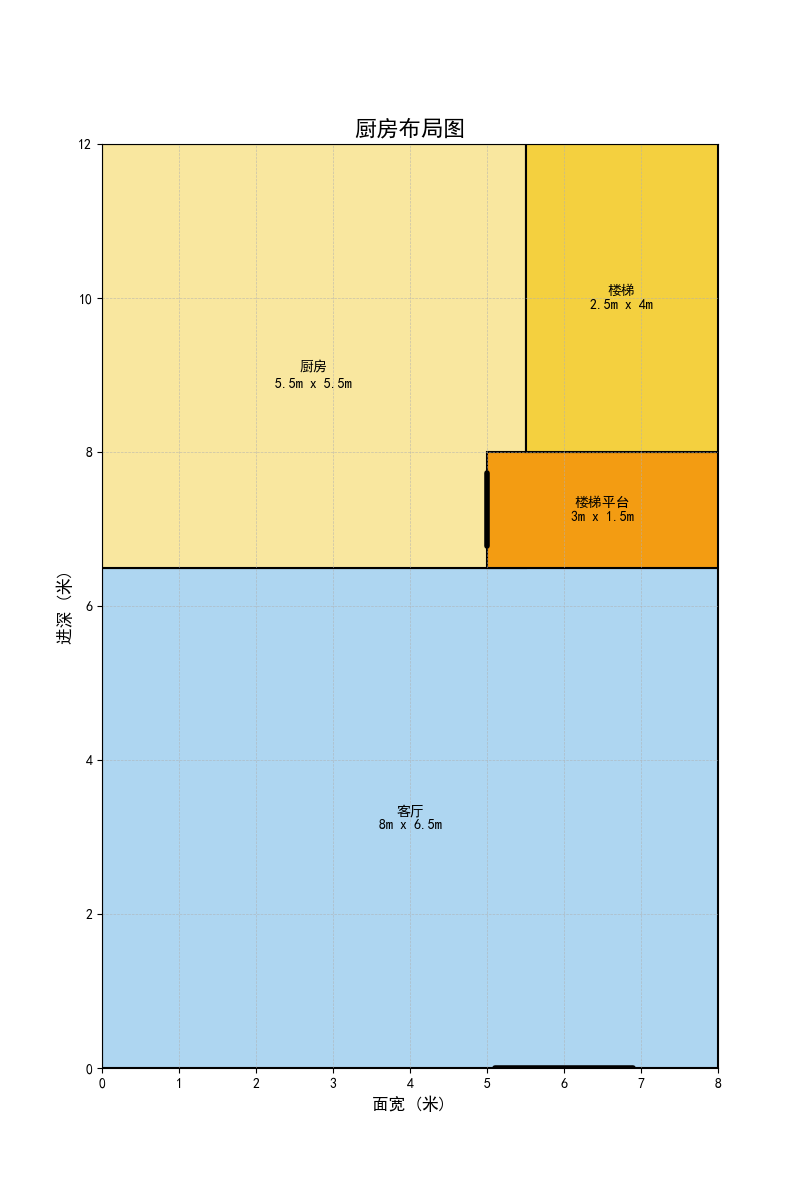
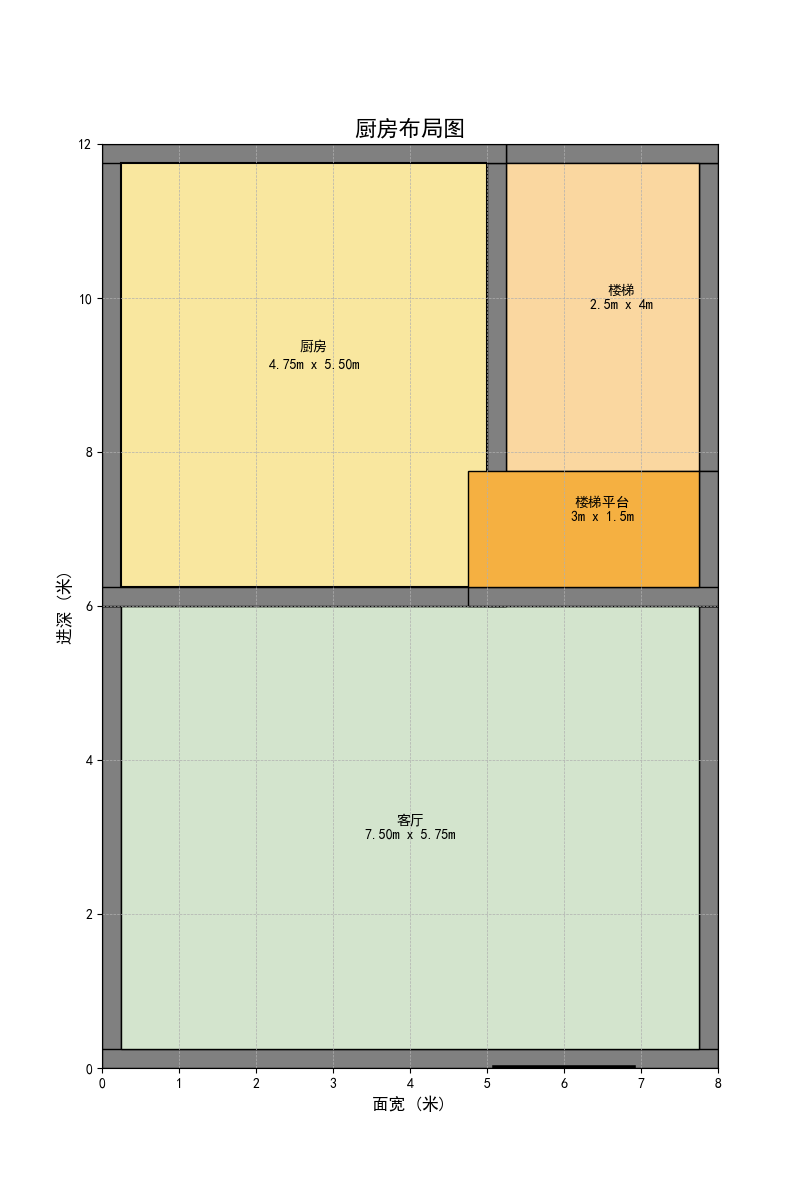
feat(floor_*.py): update

diff --git a/floor_1nd.py b/floor_1nd.py
@@ -26,46 +26,111 @@ plt.grid(visible=True, which='both', linestyle='--', linewidth=0.5)  # 添加虚
 
 # 定义各功能区的颜色
 colors = {
-    '客厅': '#AED6F1',  # 浅蓝色
-    '楼梯': '#F7DC6F',  # 浅黄色（楼梯）
-    '卫生间': '#F1948A',  # 浅红色
-    '储物间': '#D7BDE2',  # 淡紫色（储物间）
-    '车库': '#D3D3D3',  # 浅灰色（车库）
-    '走廊': '#E5E4E2',  # 浅灰色（走廊）
-    '楼梯平台': '#F5B041',  # 橙色（楼梯平台）
+    '客厅': '#D3E4CD',  # 清新浅绿色
+    '主卧': '#F9E79F',  # 温暖柠檬黄
+    '次卧': '#ABEBC6',  # 舒适薄荷绿
+    '楼梯': '#FAD7A0',  # 柔和杏色
+    '卫生间': '#F4CCCC',  # 淡雅粉红
+    '储物间': '#D7BDE2',  # 淡紫罗兰
+    '车库': '#D3D3D3',  # 浅灰色
+    '走廊': '#EAECEE',  # 浅灰蓝
+    '楼梯平台': '#F5B041',  # 明亮橙色
+    '厨房': '#F9E79F',  # 柠檬黄（厨房）
 }
+# 墙壁厚度
+wall_thickness = 0.25
+
+
+# 绘制墙壁
+def draw_wall(x, y, width, height, exclude=None, adjacent=None):
+    """
+    绘制墙壁，排除或根据相邻区域避免重复绘制。
+
+    参数：
+    x, y: 功能区左下角坐标
+    width, height: 功能区宽度和高度
+    exclude: 排除的墙壁方向 ('left', 'right', 'top', 'bottom')
+    adjacent: 相邻区域信息，用于避免重复绘制墙壁
+    """
+    if exclude is None:
+        exclude = list()
+    if adjacent is None:
+        adjacent = list()
+    if not isinstance(exclude, list):
+        exclude = [exclude]
+
+    if ('left' not in exclude) and ('left' not in adjacent):
+        ax.add_patch(patches.Rectangle((x, y), wall_thickness, height, facecolor='gray', edgecolor='black'))
+    if ('right' not in exclude) and ('right' not in adjacent):
+        ax.add_patch(patches.Rectangle((x + width - wall_thickness, y), wall_thickness, height - wall_thickness,
+                                       facecolor='gray', edgecolor='black'))
+    if ('bottom' not in exclude) and ('bottom' not in adjacent):
+        ax.add_patch(patches.Rectangle((x, y), width, wall_thickness, facecolor='gray', edgecolor='black'))
+    if ('top' not in exclude) and ('top' not in adjacent):
+        ax.add_patch(patches.Rectangle((x, y + height - wall_thickness), width, wall_thickness, facecolor='gray',
+                                       edgecolor='black'))
+
 
 # 绘制各个功能区
-# 客厅：位于最前面的区域
-ax.add_patch(patches.Rectangle((0, 0), 8, 6.5, facecolor=colors['客厅'], edgecolor='black', label='客厅'))
-ax.text(4, 3.25, "客厅\n8m x 6.5m", ha='center', va='center', fontsize=10)
 
-# 走廊：位于楼梯、卫生间和车库的前面
-# 修改为两部分：楼梯平台和其他走廊
-# 楼梯平台：宽3米，长1.5米
-ax.add_patch(patches.Rectangle((5, 6.5), 3, 1.5, facecolor=colors['楼梯平台'], edgecolor='black', label='楼梯平台'))
-ax.text(6.5, 7.25, "楼梯平台\n3m x 1.5m", ha='center', va='center', fontsize=10)
-
-# 其他走廊：剩余部分
-ax.add_patch(patches.Rectangle((0, 6.5), 5, 1.5, facecolor=colors['走廊'], edgecolor='black'))
-ax.text(2.5, 7.25, "走廊\n5m x 1.5m", ha='center', va='center', fontsize=10)
+# 客厅：位于最前面的区域，右侧与楼梯平台之间有墙
+draw_wall(0, 0, 8, 6.5 - wall_thickness)  # 排除底部墙壁（大门区域）
+# 注意：客厅右侧与楼梯平台之间有一堵墙，占用客厅空间
+ax.add_patch(
+    patches.Rectangle((wall_thickness, wall_thickness), 8 - 2 * wall_thickness, 6.5 - wall_thickness * 2,
+                      facecolor=colors['客厅'], edgecolor='black', label='客厅'))
+ax.text(4, 3.25, f"客厅\n{8 - 2 * wall_thickness:.2f}m x {6.5 - wall_thickness * 2:.2f}m",
+        ha='center', va='center', fontsize=10)
 
 # 楼梯：位于右侧最里面的区域
-ax.add_patch(patches.Rectangle((5.5, 8), 2.5, 4, facecolor=colors['楼梯'], edgecolor='black', label='楼梯'))
+draw_wall(5.5 - wall_thickness, 8 - wall_thickness, 2.5 + wall_thickness, 4 + wall_thickness,
+          exclude=['left', 'bottom'], adjacent=['left', 'bottom'])
+ax.add_patch(
+    patches.Rectangle((5.5 - wall_thickness, 8 - wall_thickness), 2.5, 4,
+                      facecolor=colors['楼梯'], edgecolor='black', label='楼梯'))
 ax.text(6.75, 10, "楼梯\n2.5m x 4m", ha='center', va='center', fontsize=10)
 
 # 卫生间和储物间：水平分割
 # 储物间：位于前面
-ax.add_patch(patches.Rectangle((3, 8), 2.5, 2, facecolor=colors['储物间'], edgecolor='black', label='储物间'))
-ax.text(4.25, 9, "储物间\n2.5m x 2m", ha='center', va='center', fontsize=10)
+draw_wall(3, 8, 2.5 - wall_thickness, 2, adjacent=['bottom'])
+ax.add_patch(
+    patches.Rectangle((3 + wall_thickness, 8), 2.5 - 3 * wall_thickness, 2 - wall_thickness,
+                      facecolor=colors['储物间'], edgecolor='black', label='储物间'))
+ax.text(4.25, 9, f"储物间\n{2.5 - 3 * wall_thickness:.2f}m x {2 - wall_thickness:.2f}m",
+        ha='center', va='center', fontsize=10)
 
 # 卫生间：位于后面
-ax.add_patch(patches.Rectangle((3, 10), 2.5, 2, facecolor=colors['卫生间'], edgecolor='black', label='卫生间'))
-ax.text(4.25, 11, "卫生间\n2.5m x 2m", ha='center', va='center', fontsize=10)
+draw_wall(3, 10, 2.5 - wall_thickness, 2, adjacent=['bottom'])
+ax.add_patch(
+    patches.Rectangle((3 + wall_thickness, 10), 2.5 - 3 * wall_thickness, 2 - wall_thickness,
+                      facecolor=colors['卫生间'], edgecolor='black', label='卫生间'))
+ax.text(4.25, 11, f"卫生间\n{2.5 - 3 * wall_thickness:.2f}m x {2 - wall_thickness:.2f}m",
+        ha='center', va='center', fontsize=10)
 
 # 车库：位于左侧最里面的区域
-ax.add_patch(patches.Rectangle((0, 8), 3, 4, facecolor=colors['车库'], edgecolor='black', label='车库'))
-ax.text(1.5, 10, "车库\n3m x 4m", ha='center', va='center', fontsize=10)
+draw_wall(0, 8, 3, 4, adjacent=['bottom', 'right'])
+ax.add_patch(patches.Rectangle((wall_thickness, 8), 3 - wall_thickness, 4 - wall_thickness,
+                               facecolor=colors['车库'], edgecolor='black', label='车库'))
+ax.text(1.5, 10, f"车库\n{3 - wall_thickness:.2f}m x {4 - wall_thickness:.2f}m",
+        ha='center', va='center', fontsize=10)
+
+# 走廊：位于楼梯、卫生间和车库的前面
+# 修改为两部分：楼梯平台和其他走廊
+# 楼梯平台：宽3米，长1.5米
+draw_wall(5 - wall_thickness, 6.5 - wall_thickness * 2, 3 + wall_thickness, 1.5 + wall_thickness * 2,
+          exclude=['top', 'left'], adjacent=['top', 'left'])
+ax.add_patch(
+    patches.Rectangle((5 - wall_thickness, 6.5 - wall_thickness), 3, 1.5,
+                      facecolor=colors['楼梯平台'], edgecolor='black', label='楼梯平台'))
+ax.text(6.5, 7.25, "楼梯平台\n3m x 1.5m", ha='center', va='center', fontsize=10)
+
+# 其他走廊：剩余部分
+draw_wall(0, 6.5 - wall_thickness, 5 + wall_thickness, 1.5 + wall_thickness,
+          exclude=['right', 'bottom'], adjacent=['right', 'bottom'])
+ax.add_patch(patches.Rectangle((wall_thickness, 6.5 - wall_thickness), 5 - wall_thickness * 2, 1.5,
+                               facecolor=colors['走廊'], edgecolor='black'))
+ax.text(2.5, 7.25, f"走廊\n{5 - wall_thickness * 2:.2f}m x 1.5m",
+        ha='center', va='center', fontsize=10)
 
 # 绘制大门：位于正面右侧进入，使用双向大门表示
 door_x_start = 4 + (4 - 1.8) / 2  # 大门起始x坐标（右半侧中央）
@@ -76,17 +141,9 @@ door_length = 1.8  # 大门长度
 ax.plot([door_x_start, door_x_start + door_length], [door_y_bottom, door_y_bottom],
         color='black', linewidth=4, label='大门')
 
-# # 添加图例
-# handles, labels = [], []
-# for label, color in colors.items():
-#     handles.append(patches.Patch(color=color, label=label))
-# ax.legend(handles=handles, loc='upper left', bbox_to_anchor=(1.05, 1), fontsize=10, title="功能区")
-
 # 显示坐标轴标签
 plt.xlabel("面宽 (米)", fontsize=12)
 plt.ylabel("进深 (米)", fontsize=12)
 
-# 显示图形
-# plt.tight_layout()
 # 显示图形
 plt.show()

diff --git a/floor_1_5nd.py b/floor_1_5nd.py
@@ -21,44 +21,99 @@ ax.set_ylim(0, 12)  # 进深12米
 ax.set_aspect('equal')  # 确保图形比例一致
 
 # 添加标题和网格线
-plt.title("厨房布局图", fontsize=16, fontweight='bold')  # 设置标题加粗
-plt.grid(visible=True, which='both', linestyle='--', linewidth=0.5, alpha=0.7)  # 添加虚线网格，降低透明度
+plt.title("厨房布局图", fontsize=16)  # 设置标题
+plt.grid(visible=True, which='both', linestyle='--', linewidth=0.5)  # 添加虚线网格
 
-# 定义各功能区的颜色（更新厨房颜色）
+# 定义各功能区的颜色
 colors = {
-    '客厅': '#AED6F1',  # 浅蓝色
-    '楼梯': '#F4D03F',  # 明亮黄色（楼梯）
-    '卫生间': '#EC7063',  # 草莓红（卫生间）
-    '储物间': '#D7BDE2',  # 淡紫色（储物间）
-    '车库': '#D3D3D3',  # 浅灰色（车库）
-    '走廊': '#EBF5FB',  # 浅灰蓝（走廊）
-    '楼梯平台': '#F39C12',  # 橙色（楼梯平台）
+    '客厅': '#D3E4CD',  # 清新浅绿色
+    '主卧': '#F9E79F',  # 温暖柠檬黄
+    '次卧': '#ABEBC6',  # 舒适薄荷绿
+    '楼梯': '#FAD7A0',  # 柔和杏色
+    '卫生间': '#F4CCCC',  # 淡雅粉红
+    '储物间': '#D7BDE2',  # 淡紫罗兰
+    '车库': '#D3D3D3',  # 浅灰色
+    '走廊': '#EAECEE',  # 浅灰蓝
+    '楼梯平台': '#F5B041',  # 明亮橙色
     '厨房': '#F9E79F',  # 柠檬黄（厨房）
 }
 
+# 墙壁厚度
+wall_thickness = 0.25
+
+
+# 绘制墙壁
+def draw_wall(x, y, width, height, exclude=None, adjacent=None):
+    """
+    绘制墙壁，排除或根据相邻区域避免重复绘制。
+
+    参数：
+    x, y: 功能区左下角坐标
+    width, height: 功能区宽度和高度
+    exclude: 排除的墙壁方向 ('left', 'right', 'top', 'bottom')
+    adjacent: 相邻区域信息，用于避免重复绘制墙壁
+    """
+    if exclude is None:
+        exclude = list()
+    if adjacent is None:
+        adjacent = list()
+    if not isinstance(exclude, list):
+        exclude = [exclude]
+
+    if ('left' not in exclude) and ('left' not in adjacent):
+        ax.add_patch(patches.Rectangle((x, y), wall_thickness, height, facecolor='gray', edgecolor='black'))
+    if ('right' not in exclude) and ('right' not in adjacent):
+        ax.add_patch(patches.Rectangle((x + width - wall_thickness, y), wall_thickness, height - wall_thickness,
+                                       facecolor='gray', edgecolor='black'))
+    if ('bottom' not in exclude) and ('bottom' not in adjacent):
+        ax.add_patch(patches.Rectangle((x, y), width, wall_thickness, facecolor='gray', edgecolor='black'))
+    if ('top' not in exclude) and ('top' not in adjacent):
+        ax.add_patch(patches.Rectangle((x, y + height - wall_thickness), width, wall_thickness, facecolor='gray',
+                                       edgecolor='black'))
+
+
 # 绘制各个功能区
-# 客厅：位于最前面的区域
+
+# 客厅：位于最前面的区域，右侧与楼梯平台之间有墙
+draw_wall(0, 0, 8, 6.5 - wall_thickness)  # 排除底部墙壁（大门区域）
+# 注意：客厅右侧与楼梯平台之间有一堵墙，占用客厅空间
 ax.add_patch(
-    patches.Rectangle((0, 0), 8, 6.5, facecolor=colors['客厅'], edgecolor='black', linewidth=1.5, label='客厅'))
-ax.text(4, 3.25, "客厅\n8m x 6.5m", ha='center', va='center', fontsize=10, fontweight='bold')
+    patches.Rectangle((wall_thickness, wall_thickness), 8 - 2 * wall_thickness, 6.5 - 3 * wall_thickness,
+                      facecolor=colors['客厅'], edgecolor='black', label='客厅'))
+# 调整文字位置使其居中
+ax.text(4, (6.5 - 3 * wall_thickness) / 2 + wall_thickness,
+        f"客厅\n{8 - 2 * wall_thickness:.2f}m x {6.5 - 3 * wall_thickness:.2f}m",
+        ha='center', va='center', fontsize=10)
+
+# 楼梯：位于右侧最里面的区域
+draw_wall(5.5 - wall_thickness, 8 - wall_thickness, 2.5 + wall_thickness, 4 + wall_thickness,
+          exclude=['left', 'bottom'], adjacent=['left', 'bottom'])
+ax.add_patch(
+    patches.Rectangle((5.5 - wall_thickness, 8 - wall_thickness), 2.5, 4,
+                      facecolor=colors['楼梯'], edgecolor='black', label='楼梯'))
+# 调整文字位置使其居中
+ax.text(5.5 + 2.5 / 2, 8 + 4 / 2, "楼梯\n2.5m x 4m", ha='center', va='center', fontsize=10)
 
 # 厨房：重新定义颜色和文字描述
+draw_wall(0, 6.5 - 2 * wall_thickness, 5.5 - wall_thickness, 5.5 + 2 * wall_thickness)
 ax.add_patch(
-    patches.Rectangle((0, 6.5), 5.5, 5.5, facecolor=colors['厨房'], edgecolor='black', linewidth=1.5, label='厨房'))
-ax.text(2.75, 9, "厨房\n5.5m x 5.5m", ha='center', va='center', fontsize=10, fontweight='bold',
-        linespacing=1.5)
+    patches.Rectangle((wall_thickness, 6.5 - wall_thickness), 5.5 - 3 * wall_thickness, 5.5,
+                      facecolor=colors['厨房'], edgecolor='black', linewidth=1.5, label='厨房'))
+# 调整文字位置使其居中
+ax.text(5.5 / 2, 6.5 + 5.5 / 2, f"厨房\n{5.5 - 3 * wall_thickness:.2f}m x {5.5:.2f}m", ha='center', va='center',
+        fontsize=10,
+        fontweight='bold', linespacing=1.5)
 
 # 走廊：位于楼梯、卫生间和车库的前面
 # 修改为两部分：楼梯平台和其他走廊
 # 楼梯平台：宽3米，长1.5米
-ax.add_patch(patches.Rectangle((5, 6.5), 3, 1.5, facecolor=colors['楼梯平台'], edgecolor='black', linewidth=1.5,
-                               label='楼梯平台'))
-ax.text(6.5, 7.25, "楼梯平台\n3m x 1.5m", ha='center', va='center', fontsize=10, fontweight='bold')
-
-# 楼梯：位于右侧最里面的区域
+draw_wall(5 - wall_thickness, 6.5 - wall_thickness * 2, 3 + wall_thickness, 1.5 + wall_thickness * 2,
+          exclude=['top', 'left'], adjacent=['top', 'left'])
 ax.add_patch(
-    patches.Rectangle((5.5, 8), 2.5, 4, facecolor=colors['楼梯'], edgecolor='black', linewidth=1.5, label='楼梯'))
-ax.text(6.75, 10, "楼梯\n2.5m x 4m", ha='center', va='center', fontsize=10, fontweight='bold')
+    patches.Rectangle((5 - wall_thickness, 6.5 - wall_thickness), 3, 1.5,
+                      facecolor=colors['楼梯平台'], edgecolor='black', label='楼梯平台'))
+# 调整文字位置使其居中
+ax.text(5 + 3 / 2, 6.5 + 1.5 / 2, "楼梯平台\n3m x 1.5m", ha='center', va='center', fontsize=10)
 
 # 绘制大门：位于正面右侧进入，使用双向大门表示
 door_x_start = 4 + (4 - 1.8) / 2  # 大门起始x坐标（右半侧中央）
@@ -67,27 +122,15 @@ door_length = 1.8  # 大门长度
 
 # 使用两条粗线表示双向大门
 ax.plot([door_x_start, door_x_start + door_length], [door_y_bottom, door_y_bottom],
-        color='black', linewidth=4, label='大门', solid_capstyle='round')
-# ax.text(door_x_start + door_length / 2, -0.5, "大门\n1.8m", ha='center', va='top', fontsize=10)
+        color='black', linewidth=4, label='大门')
 
-# 绘制进户门（调整位置和长度）
-door_x = 4 + 1  # 进户门的x坐标
-door_y_bottom = 6.5 + (1.5 - 0.95) / 2  # 进户门底部y坐标
-door_length = 0.95  # 进户门长度
-
-ax.plot([door_x, door_x], [door_y_bottom, door_y_bottom + door_length],
-        color='black', linewidth=4, label='进户门', solid_capstyle='round')
-
-# # 添加图例
-# handles, labels = [], []
-# for label, color in colors.items():
-#     handles.append(patches.Patch(color=color, label=label))
-# ax.legend(handles=handles, loc='upper left', bbox_to_anchor=(1.05, 1), fontsize=10, title="功能区")
-
-# 设置坐标轴标签
+# 显示坐标轴标签
 plt.xlabel("面宽 (米)", fontsize=12)
 plt.ylabel("进深 (米)", fontsize=12)
 
+# 校验面宽和进深
+assert ax.get_xlim() == (0, 8), "面宽应为8米"
+assert ax.get_ylim() == (0, 12), "进深应为12米"
+
 # 显示图形
-# plt.tight_layout()
 plt.show()

diff --git a/floor_3_5nd.py b/floor_3_5nd.py
@@ -21,7 +21,7 @@ ax.set_ylim(0, 12)  # 进深12米
 ax.set_aspect('equal')  # 确保比例一致
 
 # 添加标题和网格
-plt.title("房屋二楼布局图", fontsize=16, fontweight='bold', pad=20)
+plt.title("房屋三楼半布局图", fontsize=16, fontweight='bold', pad=20)
 plt.grid(visible=True, which='both', linestyle='--', linewidth=0.5, alpha=0.7)
 
 # 定义各功能区的颜色
@@ -36,6 +36,7 @@ colors = {
     '走廊': '#EAECEE',  # 浅灰蓝
     '楼梯平台': '#F5B041',  # 明亮橙色
     '厨房': '#F9E79F',  # 柠檬黄（厨房）
+    '阳台': '#D5E8D4',  # 浅薄荷绿（阳台）
 }
 
 # 墙壁厚度
@@ -80,6 +81,22 @@ ax.add_patch(
                       facecolor=colors['楼梯'], edgecolor='black', label='楼梯'))
 ax.text(6.75, 10, "楼梯\n2.5m x 4m", ha='center', va='center', fontsize=10, color='black')
 
+# 主卧（楼梯左侧）
+draw_wall(0, 8, 5.5 - wall_thickness, 4, exclude=['bottom'])  # 排除底部墙壁
+ax.add_patch(patches.Rectangle((wall_thickness, 8), 5.5 - 3 * wall_thickness, 4 - wall_thickness,
+                               facecolor=colors['主卧'], edgecolor='black', linewidth=1.5))
+ax.text(2.75, 10, f"主卧\n{5.5 - 3 * wall_thickness}m x {4 - wall_thickness}m",
+        ha='center', va='center', fontsize=10, color='black', fontweight='bold')
+
+# 阳台：位于最前面的区域
+draw_wall(0, 0, 8, 6.5 - wall_thickness)  # 排除底部墙壁（大门区域）
+# 注意：客厅右侧与楼梯平台之间有一堵墙，占用客厅空间
+ax.add_patch(
+    patches.Rectangle((wall_thickness, wall_thickness), 8 - 2 * wall_thickness, 6.5 - wall_thickness * 2,
+                      facecolor=colors['阳台'], edgecolor='black', label='客厅'))
+ax.text(4, 3.25, f"阳台\n{8 - 2 * wall_thickness:.2f}m x {6.5 - wall_thickness * 2:.2f}m",
+        ha='center', va='center', fontsize=10)
+
 # 楼梯平台：宽3米，长1.5米
 draw_wall(5 - wall_thickness, 6.5 - wall_thickness * 2, 3 + wall_thickness, 1.5 + wall_thickness * 2,
           exclude=['top', 'left'], adjacent=['top', 'left'])
@@ -89,45 +106,12 @@ ax.add_patch(
 ax.text(6.5, 7.25, "楼梯平台\n3m x 1.5m", ha='center', va='center', fontsize=10, color='black')
 
 # 其他走廊：剩余部分
-draw_wall(0, 6.5 - wall_thickness, 5 + wall_thickness, 1.5 + wall_thickness,
+draw_wall(0, 6.5 - 2 * wall_thickness, 5 + wall_thickness, 1.5 + 2 * wall_thickness,
           exclude=['right', 'bottom'], adjacent=['right', 'bottom'])
 ax.add_patch(patches.Rectangle((wall_thickness, 6.5 - wall_thickness), 5 - wall_thickness * 2, 1.5,
                                facecolor=colors['走廊'], edgecolor='black'))
 ax.text(2.5, 7.25, f"走廊\n{5 - wall_thickness * 2:.2f}m x 1.5m",
         ha='center', va='center', fontsize=10, color='black')
-
-# 客厅：位于最前面的区域，右侧与楼梯平台之间有墙
-draw_wall(0, 0, 4, 6.5 - wall_thickness, exclude=['top'])  # 排除顶部墙壁
-ax.add_patch(
-    patches.Rectangle((wall_thickness, wall_thickness), 4 - 2 * wall_thickness, 6.5 - wall_thickness * 2,
-                      facecolor=colors['客厅'], edgecolor='black', label='客厅'))
-ax.text(2, 3.25, f"客厅\n{4 - 2 * wall_thickness:.2f}m x {6.5 - wall_thickness * 2:.2f}m",
-        ha='center', va='center', fontsize=10, color='black', fontweight='bold')
-
-# 卫生间（主卧上方）
-draw_wall(4 - wall_thickness, 4, 4 + wall_thickness, 2 + wall_thickness,
-          exclude=['left'])  # 排除左侧墙壁
-ax.add_patch(
-    patches.Rectangle((4, 4.5 - wall_thickness), 4 - wall_thickness, 2 - wall_thickness,
-                      facecolor=colors['卫生间'], edgecolor='black', linewidth=1.5))
-ax.text(6, 5.5, f"卫生间\n{4 - wall_thickness:.2f}m x {2 - wall_thickness}m",
-        ha='center', va='center', fontsize=10, color='black', fontweight='bold')
-
-# 次卧（右下角）
-draw_wall(4 - wall_thickness, 0, 4 + wall_thickness, 4 + wall_thickness,
-          exclude=['top'])  # 排除顶部墙壁
-ax.add_patch(
-    patches.Rectangle((4, wall_thickness), 4 - wall_thickness, 4.5 - 3 * wall_thickness,
-                      facecolor=colors['次卧'], edgecolor='black', linewidth=1.5))
-ax.text(6, 2.25, f"次卧\n{4 - wall_thickness:.2f}m x {4.5 - 3 * wall_thickness:.2f}m",
-        ha='center', va='center', fontsize=10, color='black', fontweight='bold')
-
-# 主卧（楼梯左侧）
-draw_wall(0, 8, 5.5 - wall_thickness, 4, exclude=['bottom'])  # 排除底部墙壁
-ax.add_patch(patches.Rectangle((wall_thickness, 8), 5.5 - 3 * wall_thickness, 4 - wall_thickness,
-                               facecolor=colors['主卧'], edgecolor='black', linewidth=1.5))
-ax.text(2.75, 10, f"主卧\n{5.5 - 3 * wall_thickness}m x {4 - wall_thickness}m",
-        ha='center', va='center', fontsize=10, color='black', fontweight='bold')
 
 # 显示坐标轴标签
 plt.xlabel("面宽 (米)", fontsize=12, labelpad=10)
